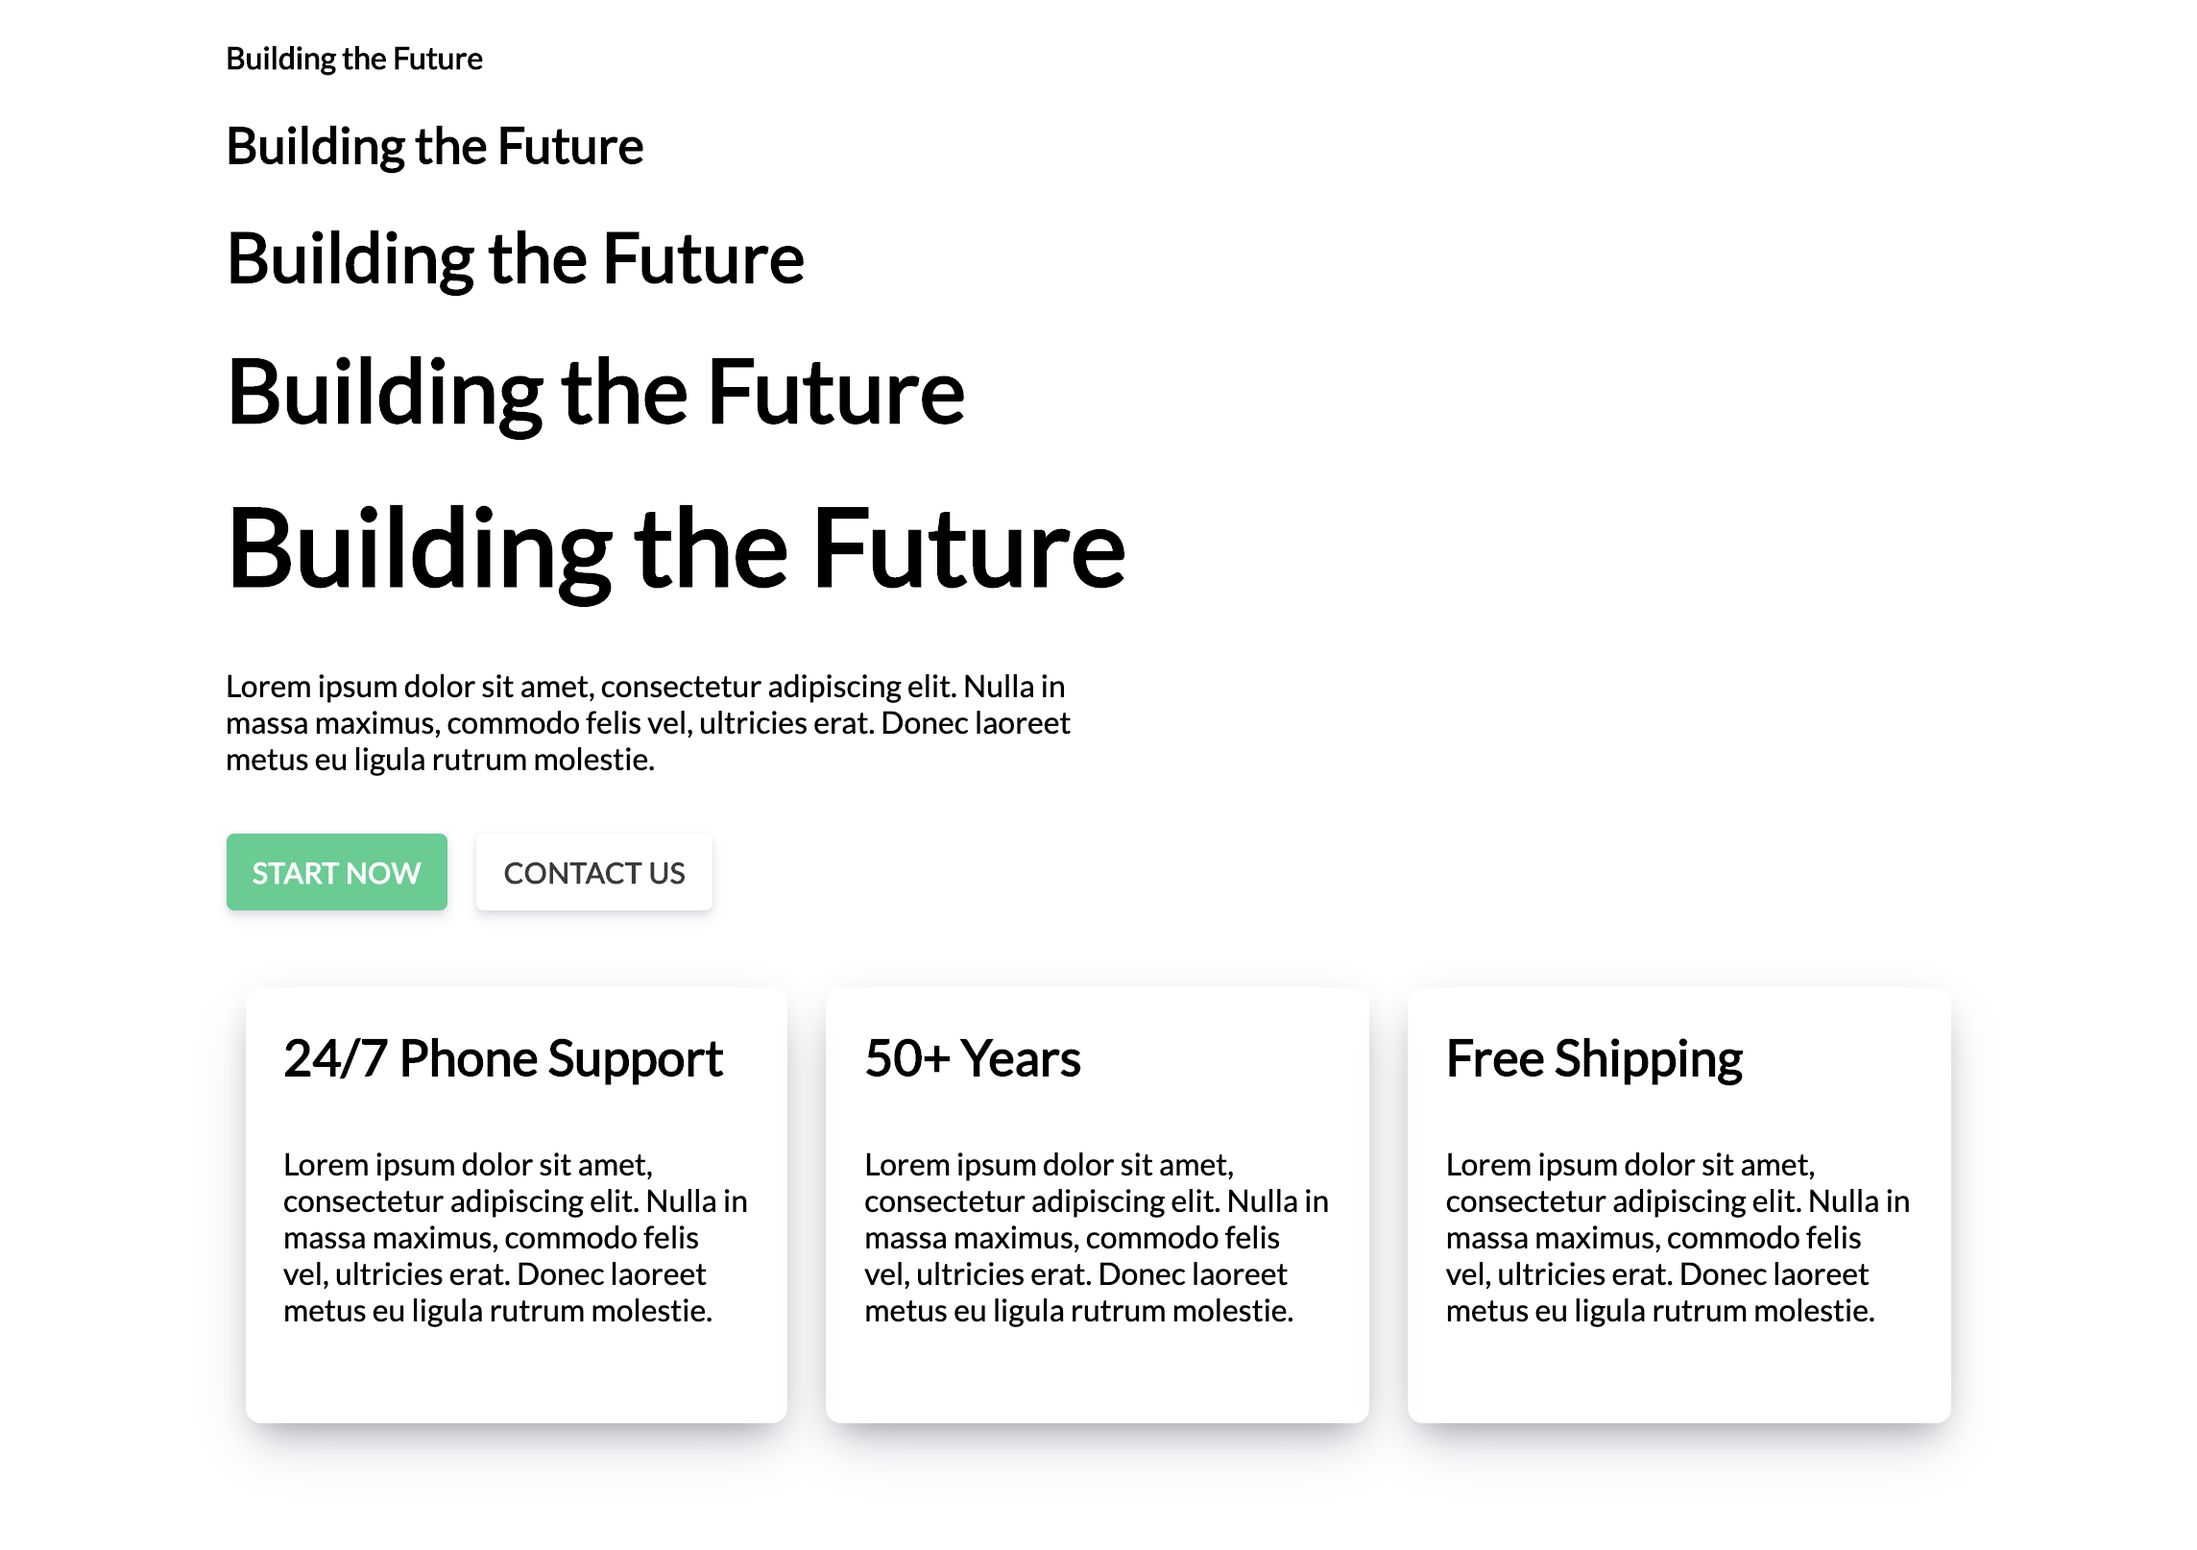
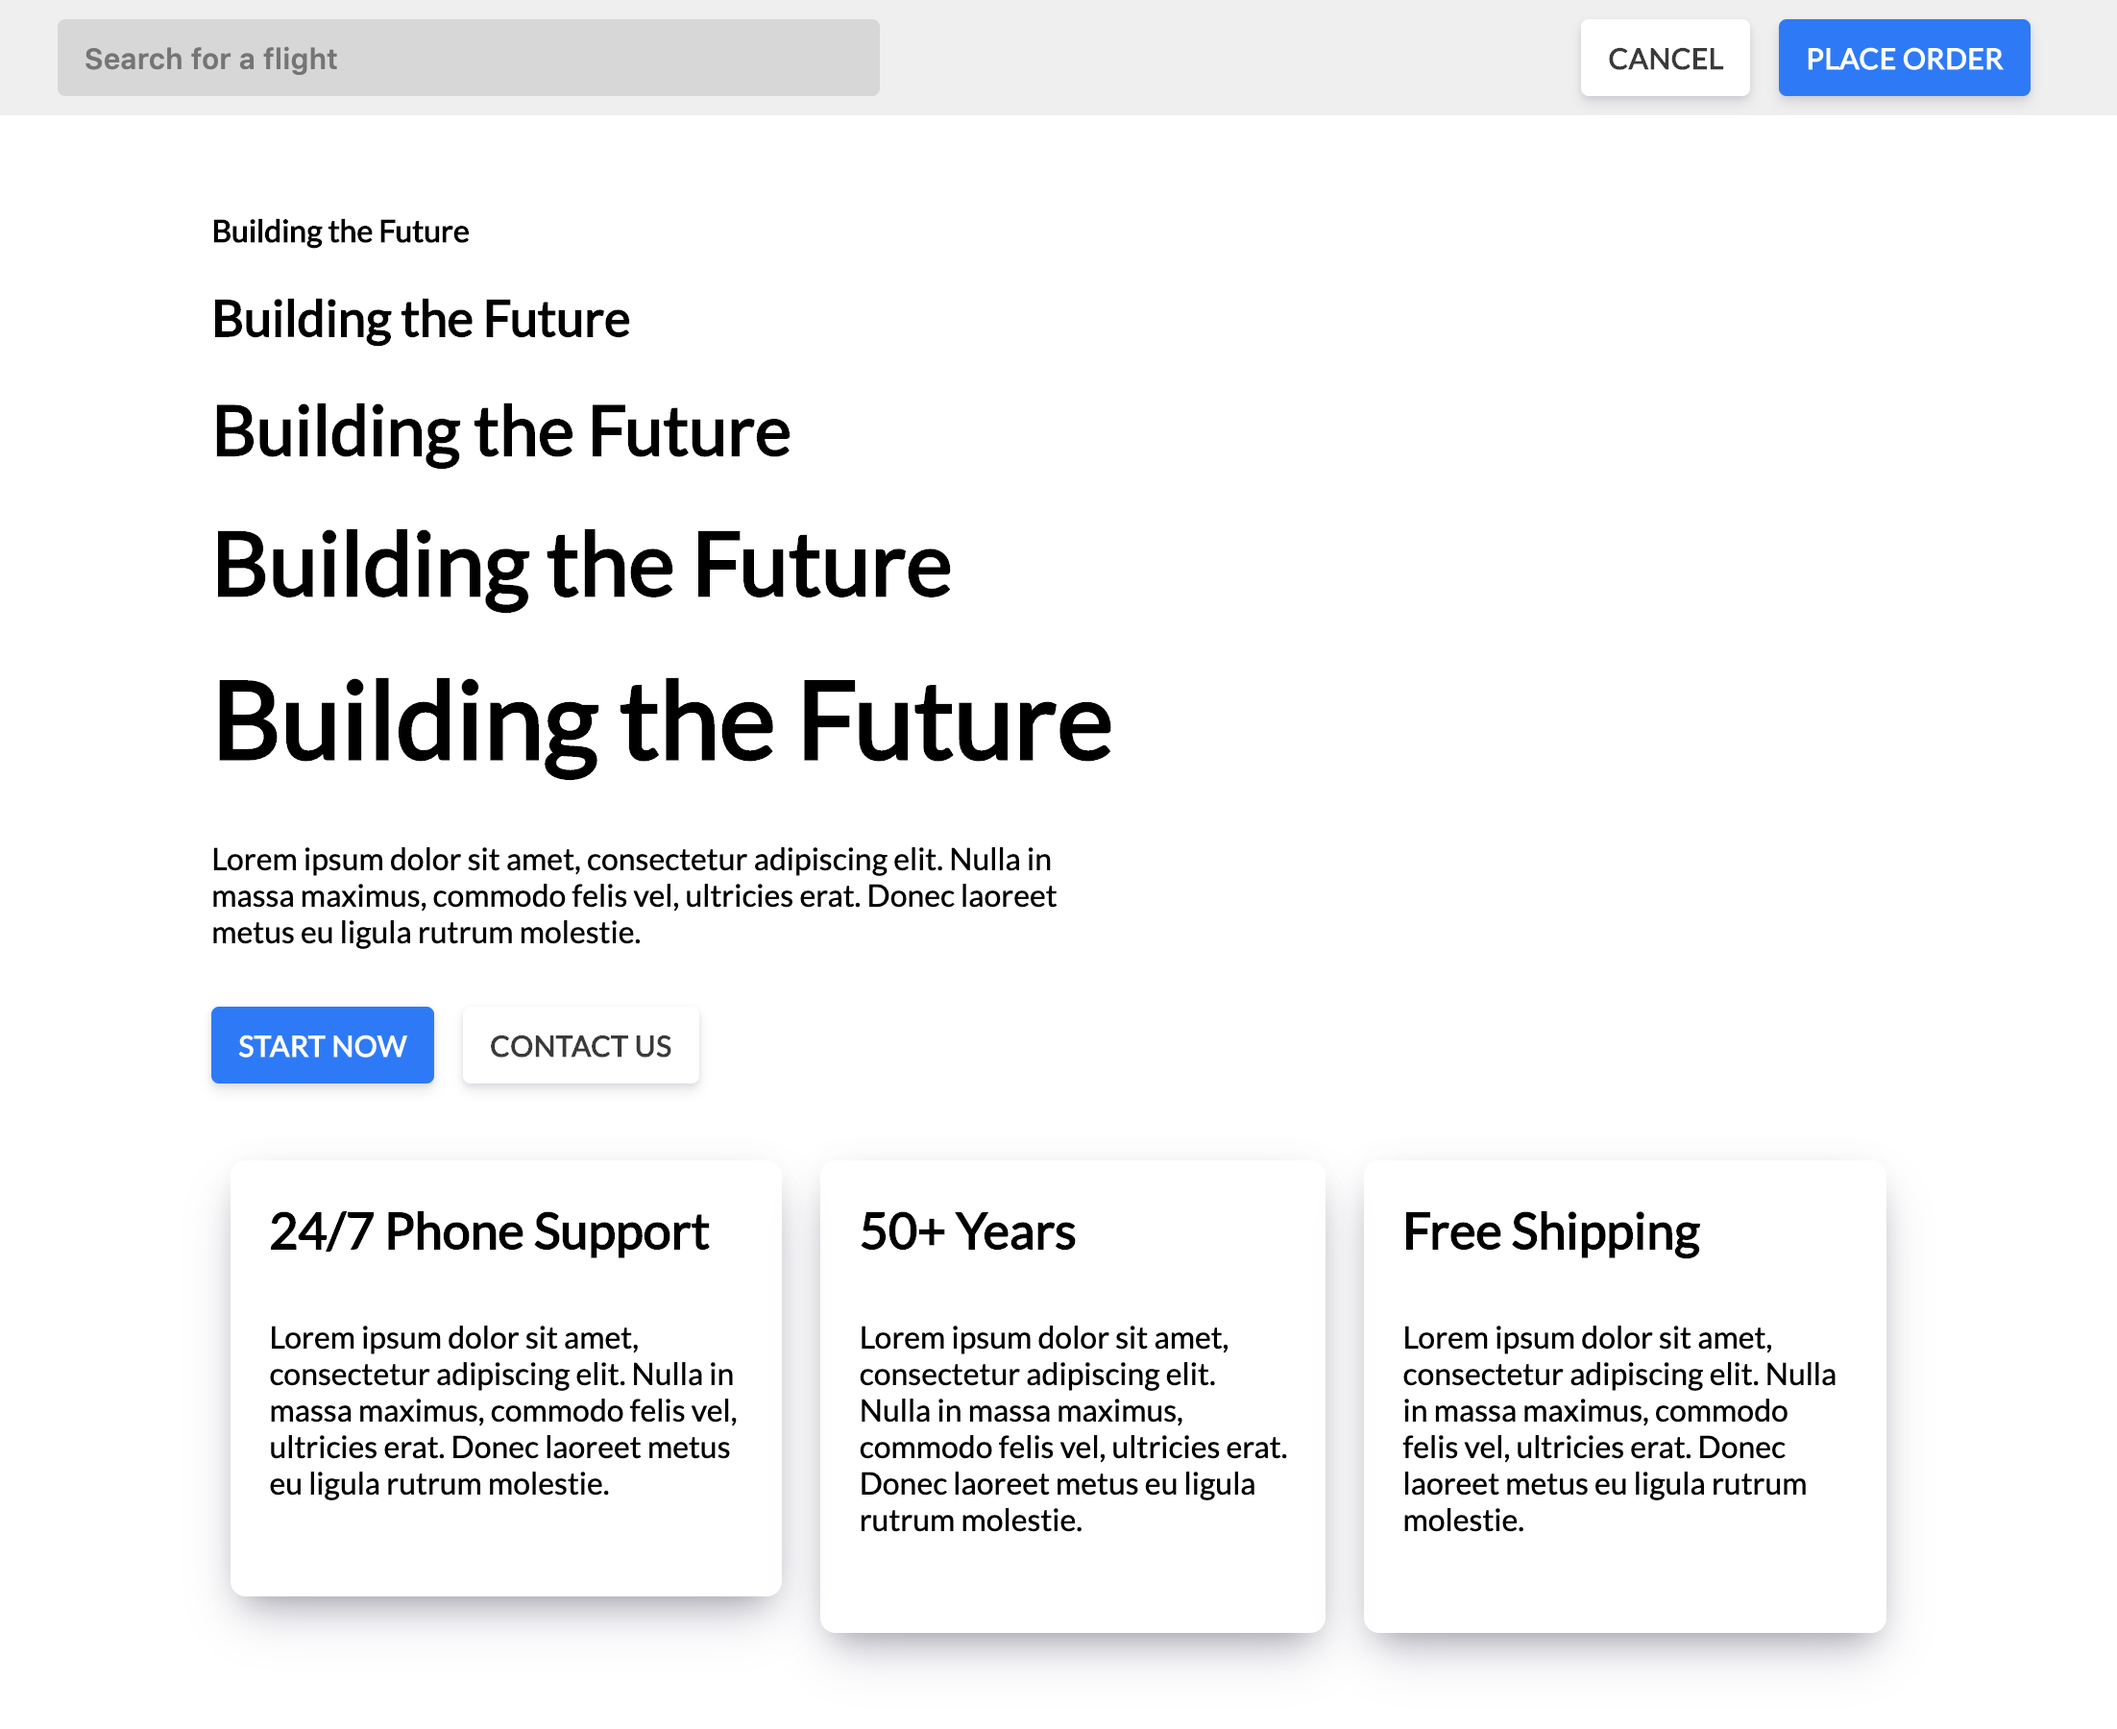
Latest changes for better flexbox setup

Changed region(s): [[0.0926, 0.3098, 0.8947, 0.9603], [0.0309, 0.0, 0.4628, 0.2788], [0.7405, 0.0, 0.9873, 0.062]]

diff --git a/components/FP/index.js b/components/FP/index.js
@@ -4,10 +4,13 @@ import { configurations } from './../theme.js'
 export default function FP({
   children,
   inline = false,
+  alignItems,
+  justifyContent,
   width,
   height,
   margin,
   padding,
+  cFlex,
   cWidth,
   cHeight,
   cMargin,
@@ -15,13 +18,15 @@ export default function FP({
 }) {
   const containerStyles = {
     display: 'flex',
+    alignItems,
+    justifyContent,
     width,
     height,
     margin,
     padding
   }
   const childStyles = {
-    flex: '1',
+    flex: cFlex,
     width: cWidth,
     height: cHeight,
     margin: cMargin,

diff --git a/components/Input/styled.js b/components/Input/styled.js
@@ -1,0 +1,20 @@
+import styled from 'styled-components'
+
+/** @component */
+export const Input = styled.input.attrs(props => ({ style: props.style, placeholder: props.placeholder}))`
+  border: 0;
+  margin: 0;
+  padding: 0 1.4rem;
+  height: 4rem;
+  outline: none;
+  border-radius: 0.4rem;
+  font-weight: 600;
+  font-size: 1.5rem;
+  letter-spacing: .025rem;
+  transition: all .15s ease;
+  background: rgba(0, 0, 0, 0.1);
+
+  &:focus {
+    background: white;
+  }
+`

diff --git a/components/theme.js b/components/theme.js
@@ -3,13 +3,14 @@ const colors = {
   snow: '#eeeeee',
   black: 'black',
   night: '#3a3a3a',
-  grass: '#3ecf8e'
+  grass: '#3ecf8e',
+  sky: 'rgb(0, 120, 255)'
 }
 
 const configurations = {
   primary: {
     color: colors.white,
-    background: colors.grass
+    background: colors.sky
   },
   secondary: {
     color: colors.night,

diff --git a/dev/index.html b/dev/index.html
@@ -5,7 +5,9 @@
     <title>Playground</title>
     <link href="https://fonts.googleapis.com/css?family=Lato&display=swap" rel="stylesheet">
     <style>
-      html {
+      html, body {
+        margin: 0;
+        padding: 0;
         font-size: 62.5%;
         font-family: "Lato", "Open Sans", "Segoe UI", sans-serif;
       }

diff --git a/components/Card/index.js b/components/Card/index.js
@@ -1,6 +1,6 @@
 import React from 'react'
 import { Container } from './styled'
 
-export default function Button({ children, style }) {
+export default function Card({ children, style }) {
   return <Container style={{style}}>{children}</Container>
 }

diff --git a/components/Input/index.js b/components/Input/index.js
@@ -1,0 +1,6 @@
+import React from 'react'
+import { Input } from './styled'
+
+export default function Button({ style = {}, placeholder = 'Placeholder text' }) {
+  return <Input style={style} placeholder={placeholder} />
+}

diff --git a/components/Navbar/index.js b/components/Navbar/index.js
@@ -1,0 +1,6 @@
+import React from 'react'
+import { Container } from './styled'
+
+export default function Navbar({ children }) {
+  return <Container>{children}</Container>
+}

diff --git a/components/Navbar/styled.js b/components/Navbar/styled.js
@@ -1,0 +1,6 @@
+import styled from 'styled-components'
+
+/** @component */
+export const Container = styled.div.attrs(props => props.style || {})`
+  background: #efefef;
+`
